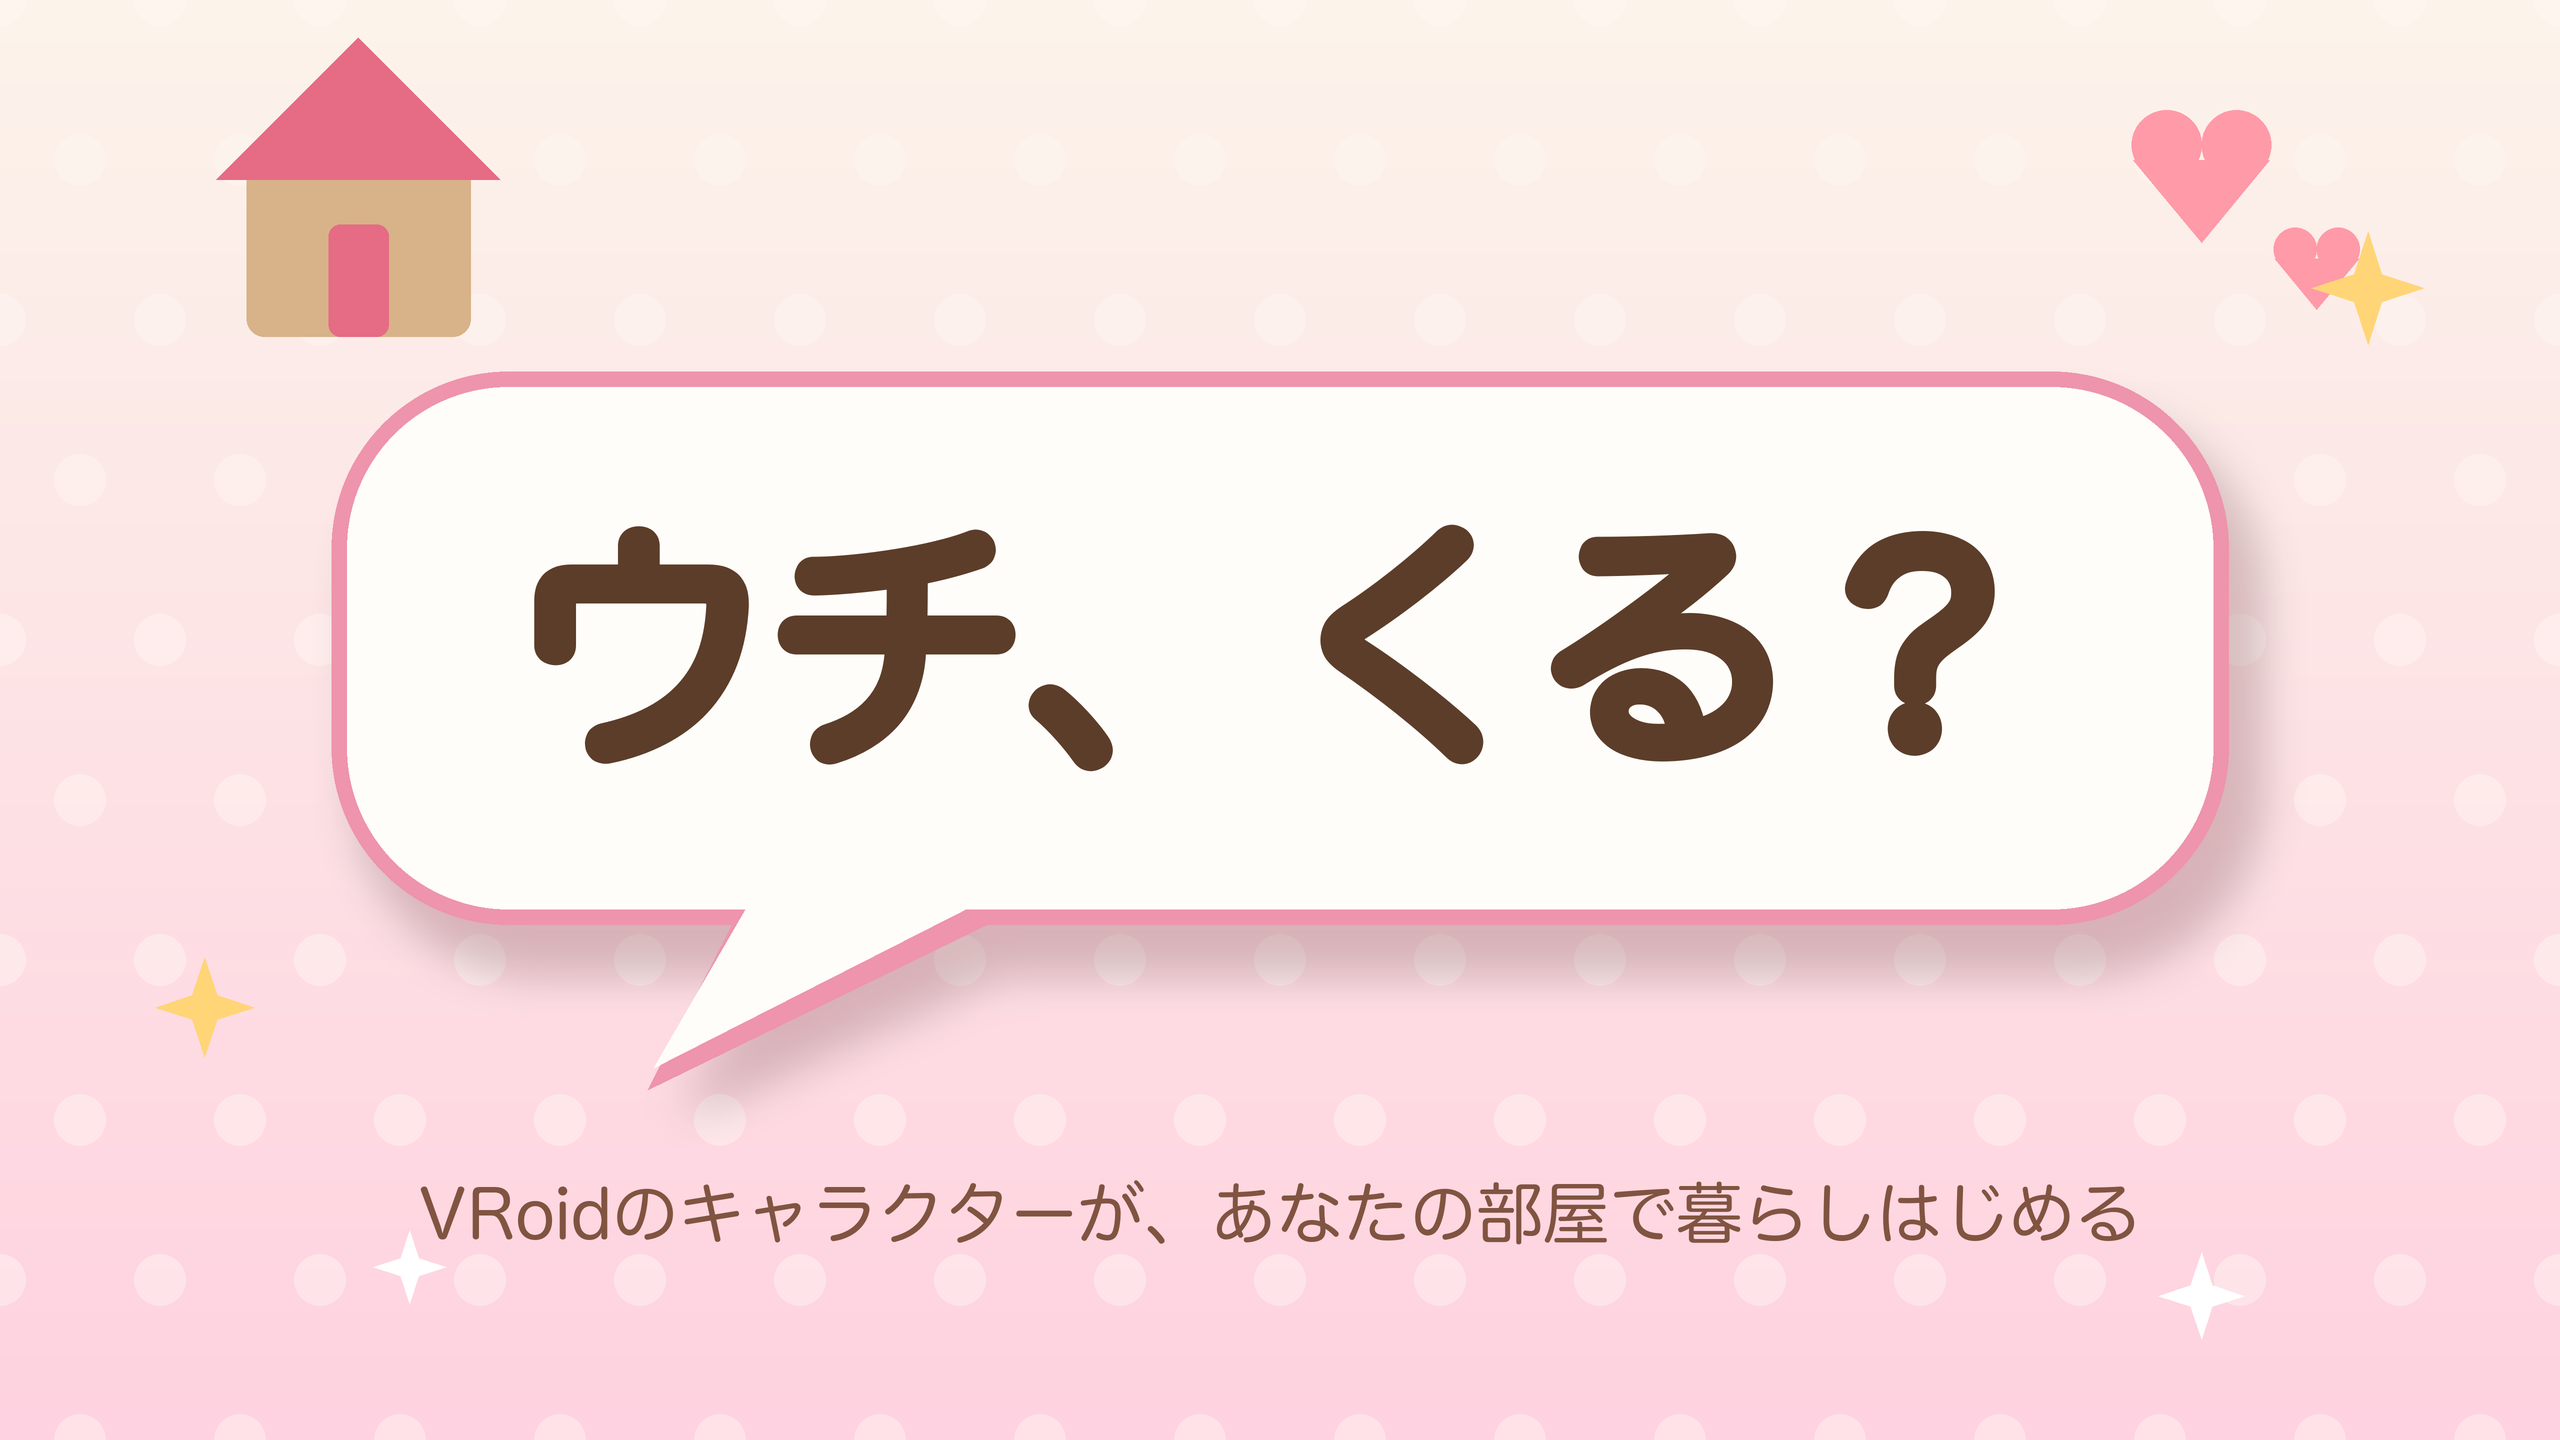
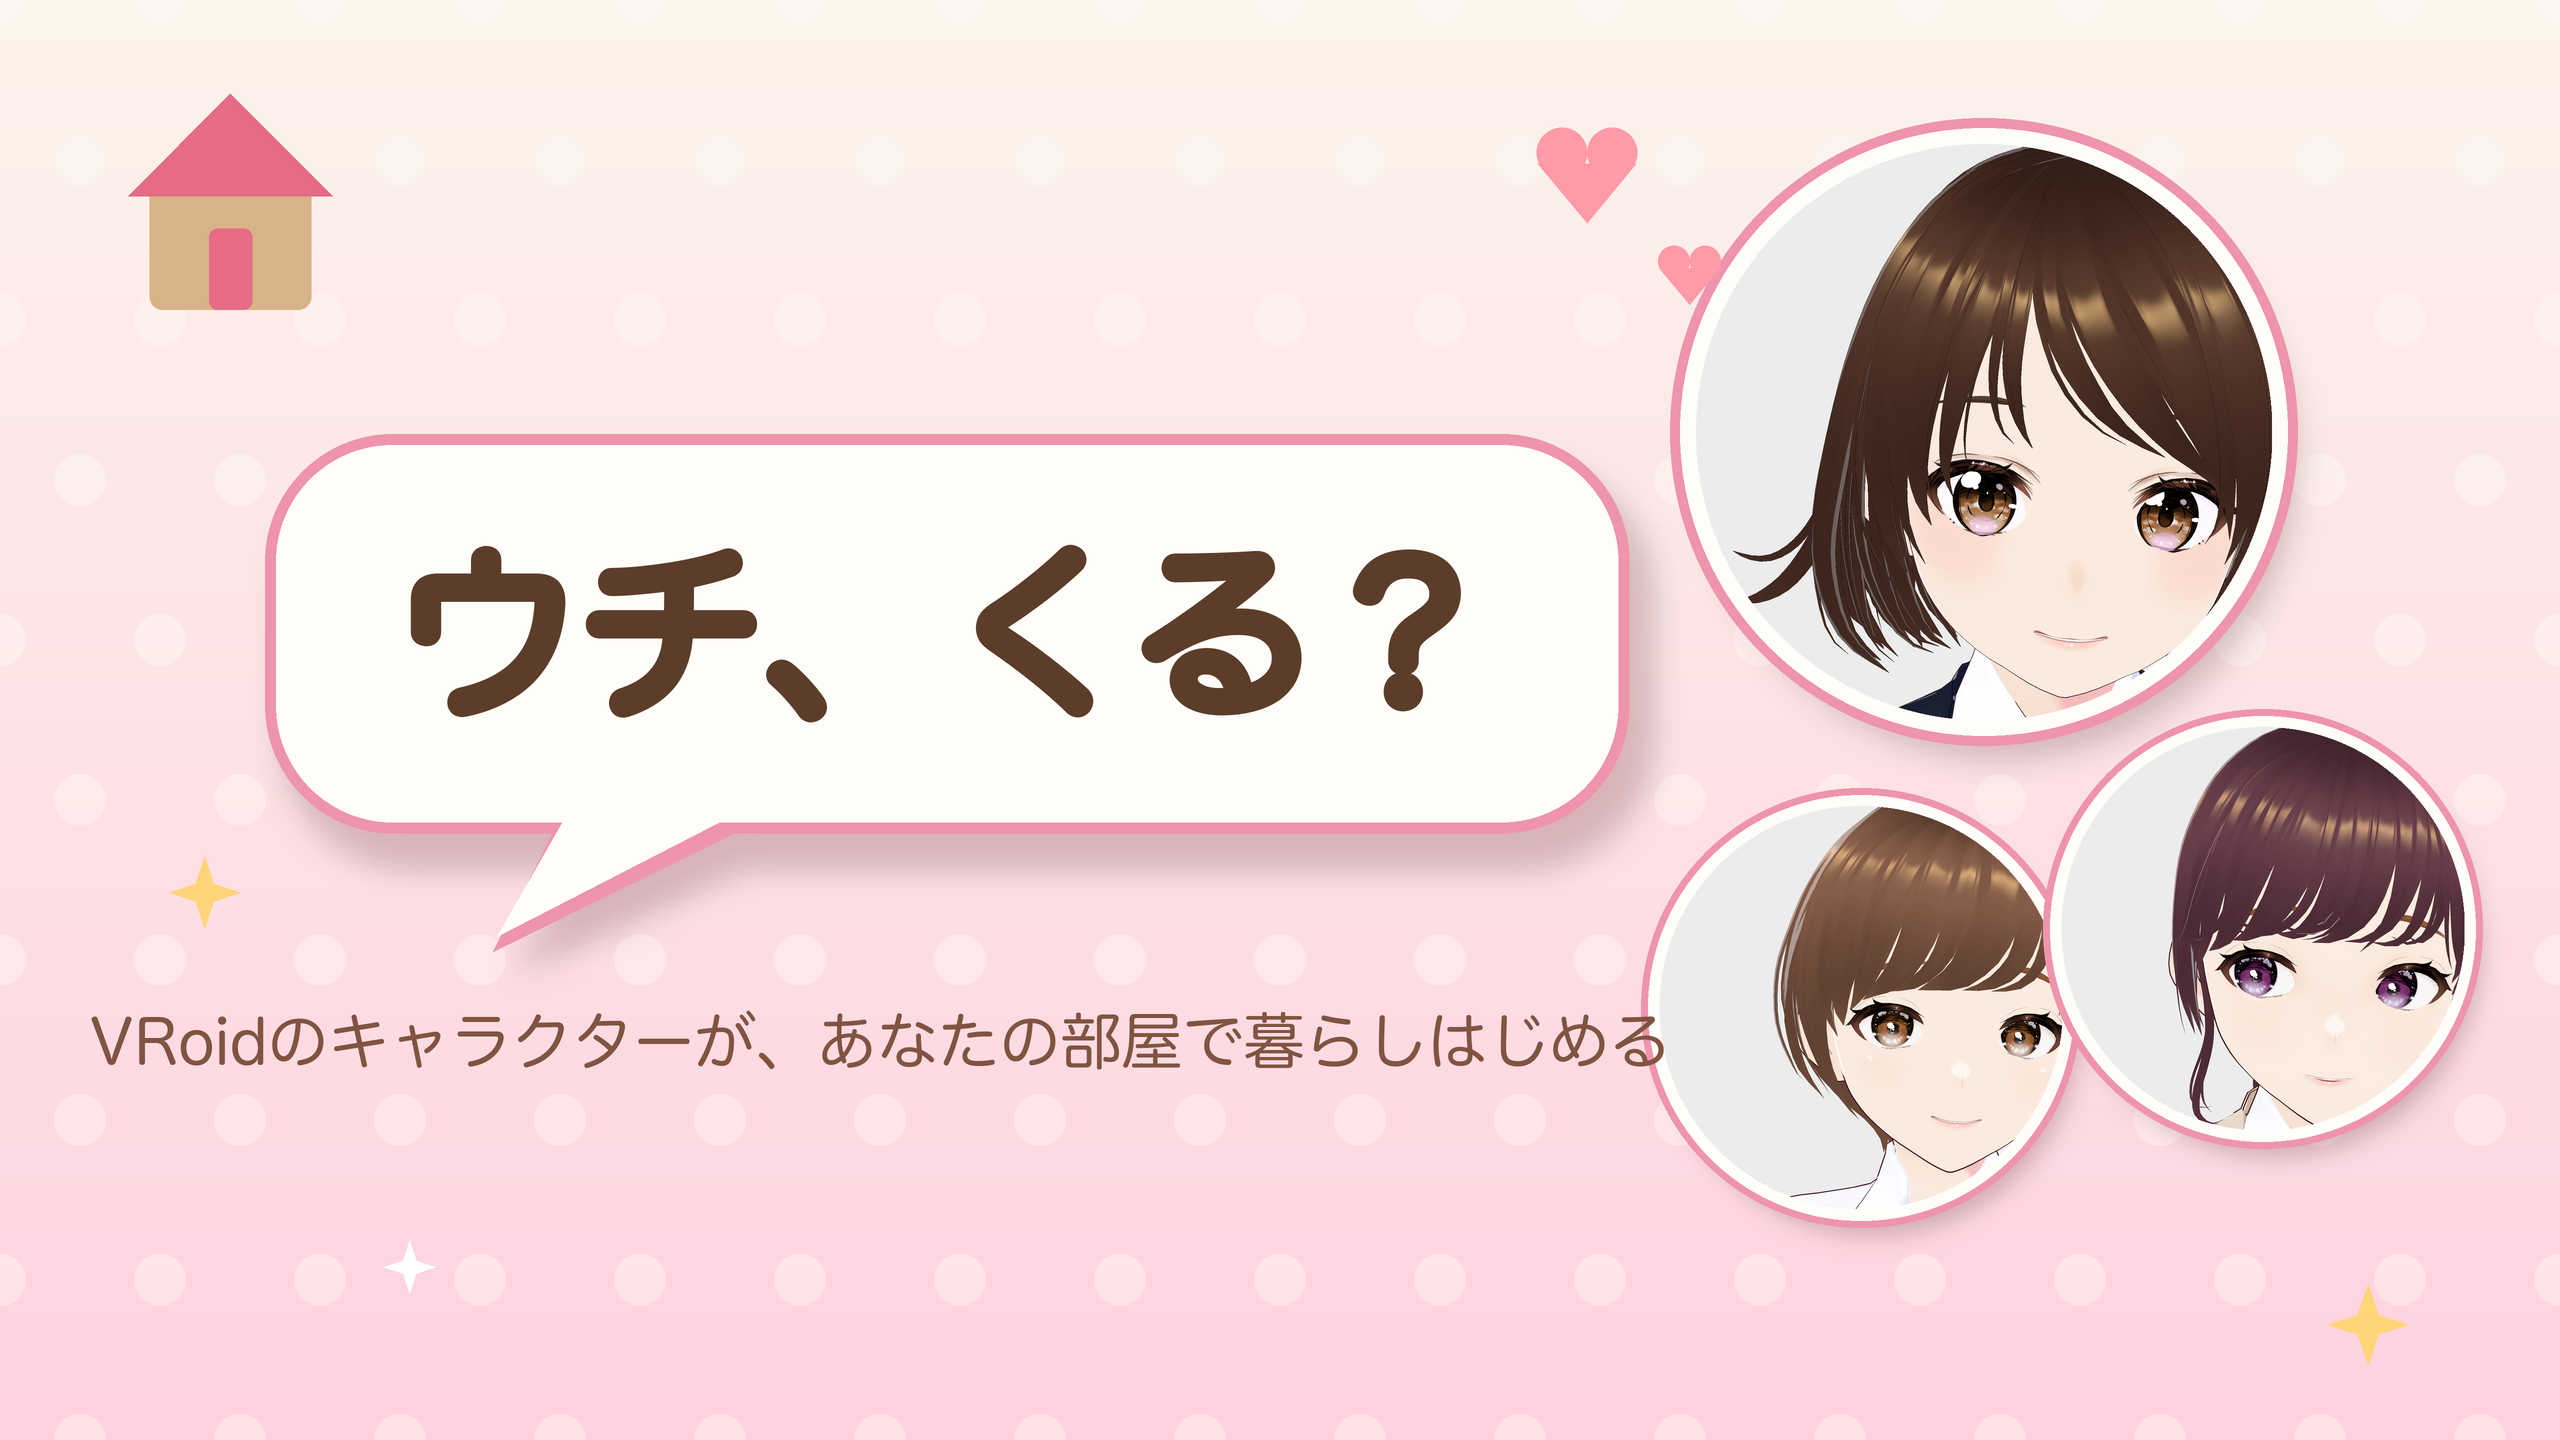
ゲームセット¥500に改定、キャラ入りキービジュアルへ更新

diff --git a/index.html b/index.html
@@ -75,7 +75,7 @@
       <tr><th>アドオン</th><th>内容</th><th>価格</th></tr>
       <tr><td>リモートデスクトップ</td><td>Mac の画面を部屋に浮かべて作業。Mac 用サーバーアプリは無料配布</td><td class="price">¥500</td></tr>
       <tr><td>麻雀</td><td>本格4人打ちリーチ麻雀。鳴き・カン・リーチ・裏ドラ完備</td><td class="price">¥500</td></tr>
-      <tr><td>ゲームセット</td><td>リバーシ・ババ抜き・チェス。キャラクターが対戦相手に</td><td class="price">¥300</td></tr>
+      <tr><td>ゲームセット</td><td>リバーシ・ババ抜き・チェス。キャラクターが対戦相手に</td><td class="price">¥500</td></tr>
       <tr><td>フルパック</td><td>上記すべてを解放</td><td class="price">¥1,000</td></tr>
     </table>
   </div>
